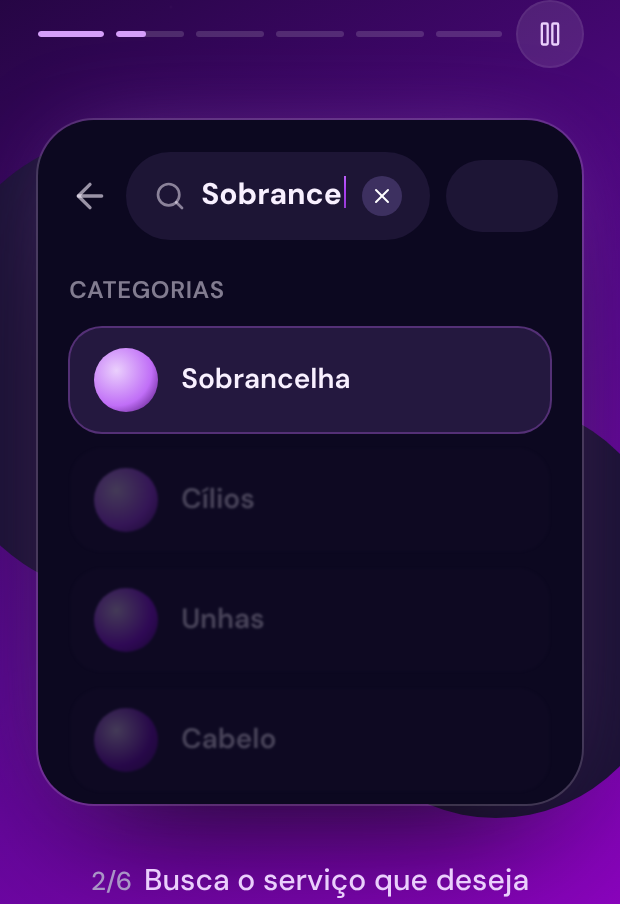
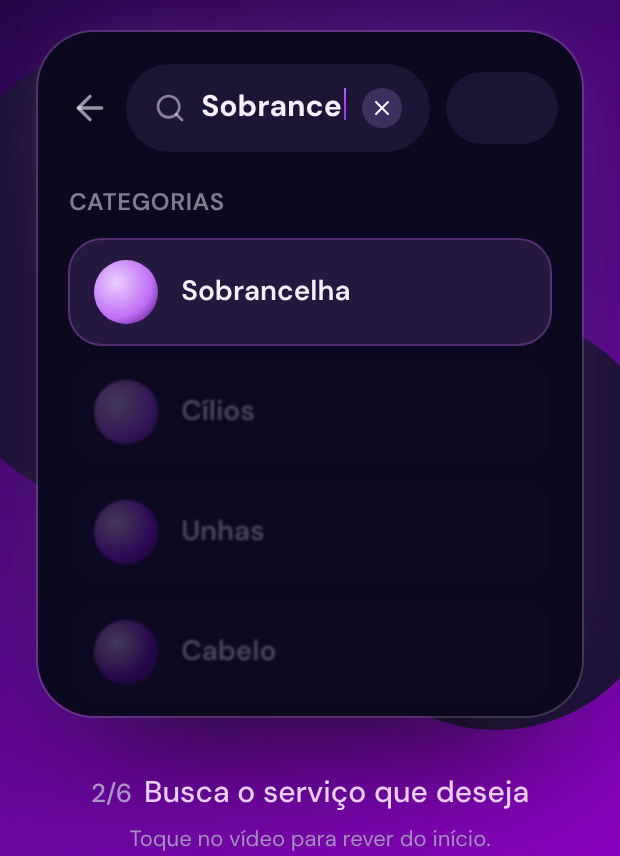
Remove barra de etapas e pausa; demonstração roda sozinha como vídeo
- Barra de etapas e botão de pausa removidos do hero e da demonstração.
- Demonstração de agendamento funciona como um vídeo: avança sozinha em
  looping, recomeça quando a pessoa volta para a tela (rolagem ou aba) e
  um toque revê do início; rolar a página por cima não trava o avanço.
- Hero: rolar a página com o dedo não segura mais o carrossel; só um
  arraste, toque no card ou no dock segura por 12 s.
- useAutoplay: contador de voltas (cycle) e restart(); digitação reinicia
  a cada volta.
- Testes e2e atualizados (looping, rever, voltar para a tela).

Claude-Session: https://claude.ai/code/session_017yUxHj6sHtnoANT1YFCpkN

diff --git a/src/components/marketing/carousel.tsx b/src/components/marketing/carousel.tsx
@@ -1,26 +1,27 @@
 "use client";
 import { useCallback, useEffect, useRef, useState } from "react";
-import { Pause, Play } from "lucide-react";
-import { cn } from "@/lib/cn";
 
 /**
- * Avanço automático legível: cada etapa tem a própria duração, pausa com o mouse em cima,
- * com o botão de pausa, fora da tela e por alguns segundos depois de qualquer interação
- * manual (para a pessoa ler no próprio ritmo).
+ * Avanço automático legível e em looping: cada etapa tem a própria duração; pausa com o mouse
+ * em cima, fora da tela e por alguns segundos depois de uma interação de verdade (arrastar,
+ * tocar no card, escolher no dock) — rolar a página não conta.
+ * `cycle` muda a cada volta completa e no restart(), para reiniciar animações internas.
  */
 export function useAutoplay({ count, durations, active: canRun }: { count: number; durations: number[]; active: boolean }) {
-  const [index, setIndex] = useState(0);
+  const [pos, setPos] = useState({ index: 0, cycle: 0 });
   const [hovering, setHovering] = useState(false);
-  const [userPaused, setUserPaused] = useState(false);
   const [holding, setHolding] = useState(false);
   const holdTimer = useRef<ReturnType<typeof setTimeout> | null>(null);
-  const running = canRun && !hovering && !userPaused && !holding;
+  const running = canRun && !hovering && !holding;
 
   useEffect(() => {
     if (!running) return;
-    const t = setTimeout(() => setIndex((i) => (i + 1) % count), durations[index] ?? 5000);
+    const t = setTimeout(
+      () => setPos((p) => (p.index + 1 >= count ? { index: 0, cycle: p.cycle + 1 } : { index: p.index + 1, cycle: p.cycle })),
+      durations[pos.index] ?? 5000,
+    );
     return () => clearTimeout(t);
-  }, [running, index, count, durations]);
+  }, [running, pos, count, durations]);
 
   useEffect(() => () => { if (holdTimer.current) clearTimeout(holdTimer.current); }, []);
 
@@ -30,13 +31,18 @@ export function useAutoplay({ count, durations, active: canRun }: { count: numbe
     if (holdTimer.current) clearTimeout(holdTimer.current);
     holdTimer.current = setTimeout(() => setHolding(false), 12_000);
   }, []);
-  const go = useCallback((i: number) => { setIndex(((i % count) + count) % count); hold(); }, [count, hold]);
-  const next = useCallback(() => go(index + 1), [go, index]);
-  const prev = useCallback(() => go(index - 1), [go, index]);
+  const go = useCallback((i: number) => { setPos((p) => ({ index: ((i % count) + count) % count, cycle: p.cycle })); hold(); }, [count, hold]);
+  const next = useCallback(() => go(pos.index + 1), [go, pos.index]);
+  const prev = useCallback(() => go(pos.index - 1), [go, pos.index]);
+  /** Volta ao começo e continua sozinho (sem segurar). */
+  const restart = useCallback(() => {
+    if (holdTimer.current) clearTimeout(holdTimer.current);
+    setHolding(false);
+    setPos((p) => ({ index: 0, cycle: p.cycle + 1 }));
+  }, []);
 
   return {
-    index, go, next, prev, running, userPaused, hold,
-    togglePause: () => setUserPaused((p) => !p),
+    index: pos.index, cycle: pos.cycle, go, next, prev, hold, restart, running,
     // Só mouse de verdade pausa por "estar em cima": no toque, o hold() de 12 s cuida disso.
     hoverProps: {
       onPointerEnter: (e: React.PointerEvent) => { if (e.pointerType === "mouse") setHovering(true); },
@@ -103,85 +109,4 @@ export function useDragSwipe({ onLeft, onRight, onStart }: { onLeft: () => void;
     transition: dragging ? "none" : "transform .35s cubic-bezier(.2,.8,.2,1), opacity .35s",
   };
   return { bind, style, dragging };
-}
-
-/**
- * Barras de progresso (estilo "stories") + botão de pausa. A barra é um controle de arrastar:
- * passe o dedo (ou o mouse) por ela e a etapa acompanha, com o nome da etapa num balão.
- * A barra da etapa atual enche no tempo exato da etapa — a pessoa sabe quanto tempo ainda tem para ler.
- */
-export function StoryBars({ count, index, durations, running, onGo, onScrub, paused, onTogglePause, labels, className }: {
-  count: number; index: number; durations: number[]; running: boolean; onGo: (i: number) => void; onScrub?: () => void;
-  paused: boolean; onTogglePause: () => void; labels: string[]; className?: string;
-}) {
-  const trackRef = useRef<HTMLDivElement>(null);
-  const [scrub, setScrub] = useState<number | null>(null); // posição do dedo (0–1) enquanto arrasta
-  const pointer = useRef<number | null>(null);
-
-  const at = (clientX: number) => {
-    const r = trackRef.current!.getBoundingClientRect();
-    const f = Math.min(1, Math.max(0, (clientX - r.left) / r.width));
-    return { f, i: Math.min(count - 1, Math.floor(f * count)) };
-  };
-  const apply = (clientX: number) => {
-    const { f, i } = at(clientX);
-    setScrub(f);
-    if (i !== index) { onGo(i); if (typeof navigator !== "undefined") navigator.vibrate?.(4); }
-    onScrub?.();
-  };
-  const release = () => { pointer.current = null; setScrub(null); };
-
-  const shown = scrub === null ? null : Math.min(count - 1, Math.floor(scrub * count));
-  return (
-    <div className={cn("flex items-center gap-2", className)}>
-      <div ref={trackRef} className="relative flex flex-1 cursor-grab touch-pan-y gap-1.5 active:cursor-grabbing" role="tablist"
-        aria-label="Etapas (arraste para escolher)"
-        onPointerDown={(e) => {
-          if (e.pointerType === "mouse" && e.button !== 0) return;
-          pointer.current = e.pointerId;
-          e.currentTarget.setPointerCapture(e.pointerId);
-          apply(e.clientX);
-        }}
-        onPointerMove={(e) => { if (pointer.current === e.pointerId) apply(e.clientX); }}
-        onPointerUp={release} onPointerCancel={release} onLostPointerCapture={release}>
-        {Array.from({ length: count }, (_, i) => (
-          <button key={i} role="tab" aria-selected={i === index} aria-label={labels[i]} tabIndex={i === index ? 0 : -1}
-            // Teclado: Enter/Espaço geram clique sem ponteiro (detail 0); o ponteiro já é tratado no arraste.
-            onClick={(e) => { if (e.detail === 0) onGo(i); }}
-            onKeyDown={(e) => {
-              if (e.key === "ArrowRight" || e.key === "ArrowLeft") {
-                e.preventDefault(); e.stopPropagation();
-                onGo((index + (e.key === "ArrowRight" ? 1 : -1) + count) % count);
-              }
-            }}
-            className="group relative h-8 flex-1" title={labels[i]}>
-            <span className={cn("absolute inset-x-0 top-1/2 h-[3px] -translate-y-1/2 overflow-hidden rounded-full bg-white/15 transition-[height] group-hover:h-[5px]", scrub !== null && "h-[6px]")}>
-              <span
-                key={`${i}-${index}-${running}`}
-                className={cn("block h-full rounded-full bg-violet-200", i < index && "w-full", i >= index && "w-0")}
-                style={i === index ? {
-                  width: running ? undefined : "100%",
-                  animation: running ? `story-fill ${durations[i] ?? 5000}ms linear forwards` : undefined,
-                  opacity: running ? 1 : 0.7,
-                } : undefined}
-              />
-            </span>
-          </button>
-        ))}
-        {/* Marcador que segue o dedo + nome da etapa */}
-        {scrub !== null && shown !== null && (
-          <span className="pointer-events-none absolute top-1/2 z-10 -translate-x-1/2 -translate-y-1/2" style={{ left: `${scrub * 100}%` }} aria-hidden>
-            <span className="block h-4 w-4 rounded-full border-2 border-white btn-glow shadow-[0_0_14px_rgb(192_110_247/0.9)]" />
-            <span style={{ transform: `translateX(-${scrub * 100}%)` }} className="absolute bottom-[calc(100%+8px)] left-1/2 rounded-full bg-violet-100 px-2.5 py-1 text-[12px] font-semibold whitespace-nowrap text-violet-800 shadow-lg">
-              {labels[shown]}
-            </span>
-          </span>
-        )}
-      </div>
-      <button onClick={onTogglePause} aria-label={paused ? "Retomar animação" : "Pausar animação"} title={paused ? "Retomar" : "Pausar"}
-        className="grid h-8 w-8 shrink-0 place-items-center rounded-full bg-white/10 text-violet-100 ring-1 ring-white/15 transition hover:bg-white/20 active:scale-95">
-        {paused ? <Play className="h-3.5 w-3.5" /> : <Pause className="h-3.5 w-3.5" />}
-      </button>
-    </div>
-  );
 }

diff --git a/src/components/marketing/booking-demo.tsx b/src/components/marketing/booking-demo.tsx
@@ -1,15 +1,16 @@
 "use client";
-import { useCallback, useEffect, useRef, useState } from "react";
+import { useEffect, useRef, useState } from "react";
 import { ArrowLeft, Bookmark, Clock, ExternalLink, Search, Share2, SlidersHorizontal, X } from "lucide-react";
 import { cn } from "@/lib/cn";
 import { useInView, usePrefersReducedMotion } from "./motion";
-import { StoryBars, useAutoplay, useDragSwipe } from "./carousel";
+import { useAutoplay } from "./carousel";
 
 /**
  * Demonstração do agendamento online em etapas: busca → digitação → sugestões →
  * resultados → serviço com "melhor horário". Ilustração (dados de exemplo, sem avaliações
- * ou números inventados apresentados como reais). Ritmo de leitura, com legenda por etapa,
- * barra de etapas arrastável, pausa, toque para avançar e card que acompanha o dedo.
+ * ou números inventados apresentados como reais). Funciona como um vídeo: roda sozinho em
+ * looping no ritmo de leitura, recomeça quando a pessoa volta para a tela e um toque revê
+ * do início. Nada precisa ser clicado para avançar.
  */
 
 const QUERY = "Sobrancelha";
@@ -27,42 +28,38 @@ const TYPE_MS = 2600; // digitação calma, letra a letra
 
 export function BookingDemo() {
   const ref = useRef<HTMLDivElement>(null);
-  const inView = useInView(ref);
+  const restartRef = useRef<() => void>(() => {});
+  const inView = useInView(ref, 0.25, () => restartRef.current());
   const reduced = usePrefersReducedMotion();
   const auto = useAutoplay({ count: STEPS.length, durations: DURATIONS, active: !reduced && inView });
-  const swipe = useDragSwipe({ onLeft: auto.next, onRight: auto.prev, onStart: auto.hold });
+  useEffect(() => { restartRef.current = auto.restart; }, [auto.restart]);
   const step = reduced ? STEPS.length - 1 : auto.index;
   const stage: Stage = STEPS[step]!.stage;
 
-  // Letras digitadas na etapa atual (zera ao trocar de etapa).
-  const [typed, setTyped] = useState({ step: -1, n: 0 });
-  const n = typed.step === step ? typed.n : 0;
+  // Letras digitadas na etapa atual (zera ao trocar de etapa ou recomeçar).
+  const visit = `${auto.cycle}-${step}`;
+  const [typed, setTyped] = useState({ visit: "", n: 0 });
+  const n = typed.visit === visit ? typed.n : 0;
   useEffect(() => {
     if (stage !== "typing" || n >= QUERY.length) return;
-    const t = setTimeout(() => setTyped({ step, n: n + 1 }), TYPE_MS / QUERY.length);
+    const t = setTimeout(() => setTyped({ visit, n: n + 1 }), TYPE_MS / QUERY.length);
     return () => clearTimeout(t);
-  }, [stage, n, step]);
-
-  const onKey = useCallback((e: React.KeyboardEvent) => {
-    if (e.key === "ArrowRight") { e.preventDefault(); auto.next(); }
-    if (e.key === "ArrowLeft") { e.preventDefault(); auto.prev(); }
-  }, [auto]);
+  }, [stage, n, visit]);
 
   const text = stage === "empty" ? "" : stage === "typing" ? QUERY.slice(0, n) : QUERY;
   const showSearch = stage === "empty" || stage === "typing" || stage === "suggest";
 
   return (
-    <div ref={ref} className="relative mx-auto w-full max-w-[440px] select-none" {...auto.hoverProps} onPointerDown={auto.hold}
-      role="region" aria-label="Demonstração do agendamento online" tabIndex={0} onKeyDown={onKey}>
-      <StoryBars className="relative z-20 mb-3 px-[6%]" count={STEPS.length} index={step} durations={DURATIONS} running={auto.running}
-        onGo={auto.go} onScrub={auto.hold} paused={auto.userPaused || reduced} onTogglePause={auto.togglePause} labels={STEPS.map((x) => x.caption)} />
-    <div className="relative aspect-[5/6] w-full cursor-grab touch-pan-y active:cursor-grabbing" role="img" aria-label={STEPS[step]!.caption}
-      {...swipe.bind} onClick={() => auto.next()}>
+    <div ref={ref} className="relative mx-auto w-full max-w-[440px] select-none" role="region" aria-label="Demonstração do agendamento online">
+    {/* Toque/clique revê do início; o resto é automático, em looping */}
+    <div role="button" tabIndex={0} onClick={auto.restart} title="Rever do início"
+      onKeyDown={(e) => { if (e.key === "Enter" || e.key === " ") { e.preventDefault(); auto.restart(); } }}
+      aria-label={`${STEPS[step]!.caption}. Toque para rever do início`} className="relative aspect-[5/6] w-full cursor-pointer">
       {/* Formas de fundo */}
       <span className="absolute top-[6%] -left-[10%] h-[62%] w-[62%] rounded-full bg-mkt-shape" aria-hidden />
       <span className="absolute -right-[8%] bottom-[2%] h-[56%] w-[56%] rounded-full bg-mkt-shape" aria-hidden />
 
-      <div style={swipe.style} className="absolute inset-x-[6%] inset-y-[4%] overflow-hidden rounded-[28px] bg-[#0c0820] ring-1 ring-white/15 shadow-[0_30px_70px_-25px_rgb(0_0_0/0.9),0_0_50px_-20px_rgb(192_110_247/0.6)]">
+      <div key={auto.cycle} className="absolute inset-x-[6%] inset-y-[4%] overflow-hidden rounded-[28px] bg-[#0c0820] ring-1 ring-white/15 shadow-[0_30px_70px_-25px_rgb(0_0_0/0.9),0_0_50px_-20px_rgb(192_110_247/0.6)]">
         {showSearch ? (
           <div className="p-4">
             <div className="flex items-center gap-2">
@@ -162,6 +159,7 @@ export function BookingDemo() {
       <p key={step} className="mt-3 text-center text-[15px] font-medium text-violet-100 motion-safe:[animation:mkt-rise_.6s_ease-out_both]" aria-live="polite">
         <span className="mr-1.5 text-[13px] text-muted tabular">{step + 1}/{STEPS.length}</span>{STEPS[step]!.caption}
       </p>
+      <p className="mt-1 text-center text-[11px] text-muted">Toque no vídeo para rever do início.</p>
     </div>
   );
 }

diff --git a/src/components/marketing/hero-widget.tsx b/src/components/marketing/hero-widget.tsx
@@ -3,14 +3,14 @@ import { useCallback, useRef, useState, type ReactNode } from "react";
 import { BarChart3, Bell, CalendarCheck2, HeartHandshake, Tag } from "lucide-react";
 import { cn } from "@/lib/cn";
 import { usePrefersReducedMotion, useInView } from "./motion";
-import { StoryBars, useAutoplay, useDragSwipe } from "./carousel";
+import { useAutoplay, useDragSwipe } from "./carousel";
 
 /**
  * Carrossel do hero: cada card mostra um recurso real do produto em forma de ilustração
  * (esqueletos no lugar de dados), com uma legenda curta para ler. Avança sozinho em ritmo
- * de leitura (~5 s por card); pausa com o mouse em cima, com o botão de pausa, fora da tela
- * e por 12 s depois de qualquer toque. Troca por clique no card, no dock, nas barras,
- * arrastando o dedo para os lados ou pelas setas do teclado.
+ * de leitura (~5 s por card), em looping; pausa com o mouse em cima, fora da tela e por 12 s
+ * depois de uma interação. Troca por clique no card, no dock, arrastando o card ou o dock
+ * para os lados ou pelas setas do teclado.
  */
 
 type Slide = { key: string; label: string; desc: string; icon: typeof Bell; tile: string; glyph: string; halo: string; render: () => ReactNode };
@@ -42,11 +42,7 @@ export function HeroWidget() {
   const slide = SLIDES[active]!;
   return (
     <div ref={ref} className="relative mx-auto w-full max-w-[560px] select-none" {...auto.hoverProps}
-      role="region" aria-roledescription="carrossel" aria-label="Recursos da Gê" tabIndex={0} onKeyDown={onKey}
-      onPointerDown={auto.hold}>
-      <StoryBars className="relative z-20 mx-auto mb-2 max-w-[420px] px-2" count={SLIDES.length} index={active} durations={DURATIONS}
-        running={auto.running} onGo={auto.go} onScrub={auto.hold} paused={auto.userPaused || reduced} onTogglePause={auto.togglePause} labels={SLIDES.map((x) => x.label)} />
-
+      role="region" aria-roledescription="carrossel" aria-label="Recursos da Gê" tabIndex={0} onKeyDown={onKey}>
       <div className="relative aspect-[66/88] w-full sm:aspect-[66/73]">
         {/* Halo desfocado com a cor do card ativo */}
         <div className="absolute inset-[8%] rounded-full opacity-60 blur-[70px] transition-[background-color] duration-1000" style={{ backgroundColor: slide.halo }} aria-hidden />
@@ -76,7 +72,7 @@ export function HeroWidget() {
         {/* Dock em arco: toque seleciona; arrastar gira como uma roleta e encaixa ao soltar */}
         <Dock active={active} onSelect={auto.go} onDrag={auto.hold} />
       </div>
-      <p className="mt-1 text-center text-[11px] text-muted">Arraste os ícones, a barra de etapas ou o próprio card.</p>
+      <p className="mt-1 text-center text-[11px] text-muted">Passa sozinho. Arraste os ícones ou o card para escolher.</p>
     </div>
   );
 }

diff --git a/src/components/marketing/motion.ts b/src/components/marketing/motion.ts
@@ -1,5 +1,5 @@
 "use client";
-import { useEffect, useState, useSyncExternalStore, type RefObject } from "react";
+import { useEffect, useRef, useState, useSyncExternalStore, type RefObject } from "react";
 
 const QUERY = "(prefers-reduced-motion: reduce)";
 const subscribe = (cb: () => void) => {
@@ -13,15 +13,29 @@ export function usePrefersReducedMotion() {
 }
 
 /** Visível na tela (e aba ativa) — animações automáticas só rodam quando alguém pode vê-las. */
-export function useInView(ref: RefObject<Element | null>, threshold = 0.25) {
+export function useInView(ref: RefObject<Element | null>, threshold = 0.25, onEnter?: () => void) {
   const [intersecting, setIntersecting] = useState(false);
   const [tabVisible, setTabVisible] = useState(true);
+  const enter = useRef(onEnter);
+  useEffect(() => { enter.current = onEnter; });
   useEffect(() => {
     const el = ref.current;
     if (!el) return;
-    const io = new IntersectionObserver(([e]) => setIntersecting(!!e?.isIntersecting), { threshold });
+    let wasIn = false, tabWasHidden = false;
+    const io = new IntersectionObserver(([e]) => {
+      const now = !!e?.isIntersecting;
+      if (now && !wasIn) enter.current?.();
+      wasIn = now;
+      setIntersecting(now);
+    }, { threshold });
     io.observe(el);
-    const onVis = () => setTabVisible(document.visibilityState === "visible");
+    const onVis = () => {
+      const visible = document.visibilityState === "visible";
+      // Voltou para a aba com o elemento na tela: conta como "voltou para a tela".
+      if (visible && tabWasHidden && wasIn) enter.current?.();
+      tabWasHidden = !visible;
+      setTabVisible(visible);
+    };
     document.addEventListener("visibilitychange", onVis);
     return () => { io.disconnect(); document.removeEventListener("visibilitychange", onVis); };
   }, [ref, threshold]);
